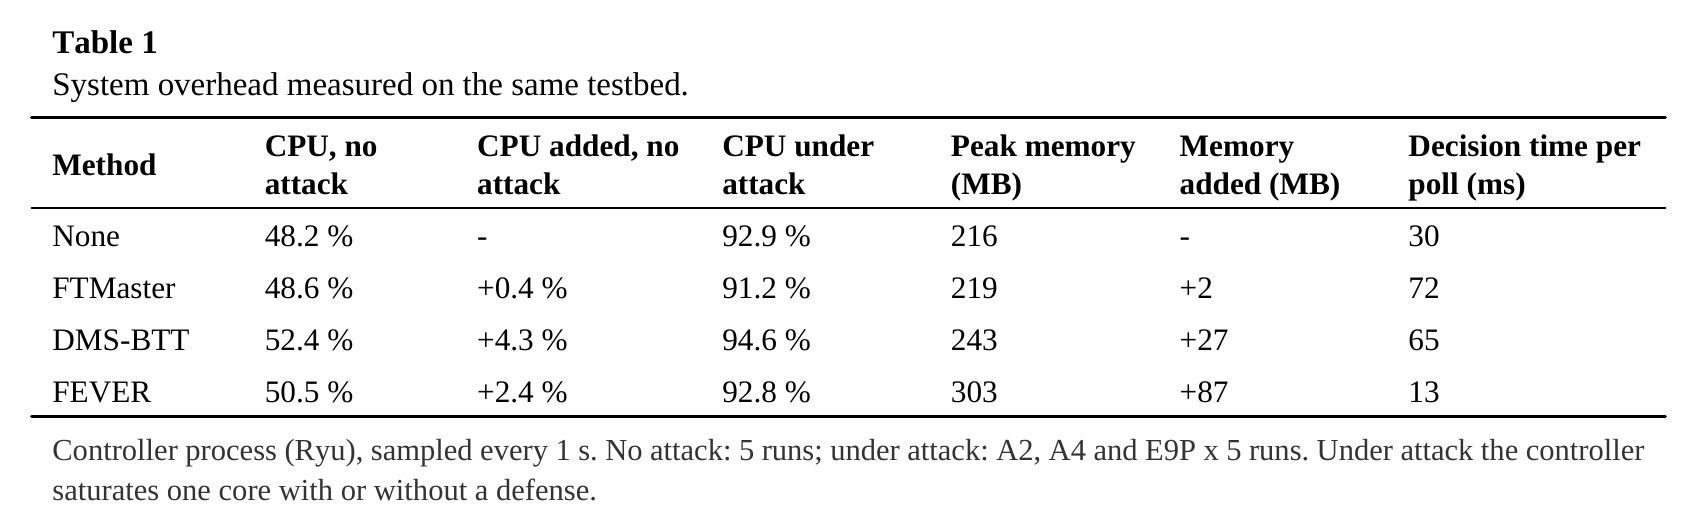
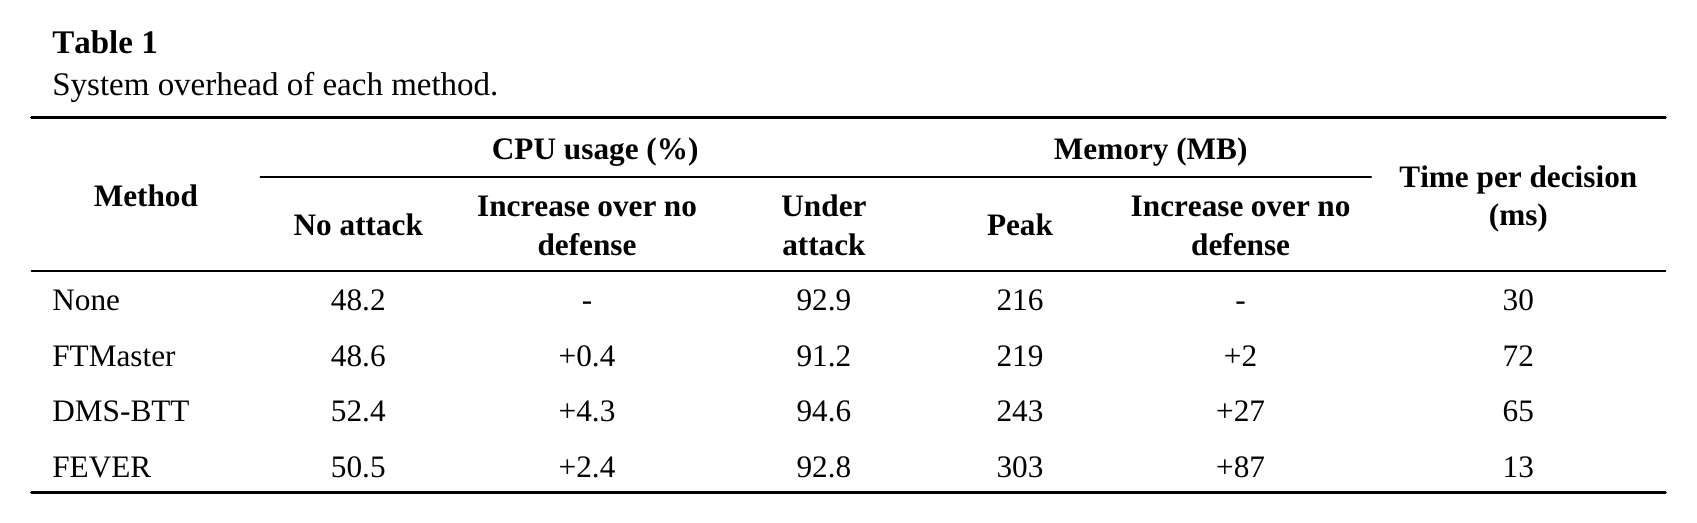
Overhead Table 1: grouped CPU / memory headers in plain words, no note; image regenerated

diff --git a/loft_project/docs/build_overhead_table.py b/loft_project/docs/build_overhead_table.py
@@ -49,15 +49,26 @@ base_idle = ben[ben.defense == "none"].cpu_pct.mean()
 rows = []
 for k, name in NAME:
     a, b = att[att.defense == k], ben[ben.defense == k]
-    rows.append([name, f"{b.cpu_pct.mean():.1f} %", f"{b.cpu_pct.mean() - base_idle:+.1f} %" if k != "none" else "-",
-                 f"{a.cpu_pct.mean():.1f} %", f"{a.mem_mb.mean():.0f}",
-                 f"{a.mem_mb.mean() - base_mem:+.0f}" if k != "none" else "-", f"{a.decision_ms_median.mean():.0f}"])
-s = [table("<b>Table 1</b><br/>System overhead measured on the same testbed.",
-           ["Method", "CPU, no attack", "CPU added, no attack", "CPU under attack", "Peak memory (MB)",
-            "Memory added (MB)", "Decision time per poll (ms)"],
-           rows, [0.13, 0.13, 0.15, 0.14, 0.14, 0.14, 0.17],
-           "Controller process (Ryu), sampled every 1 s. No attack: 5 runs; under attack: A2, A4 and E9P x 5 runs. "
-           "Under attack the controller saturates one core with or without a defense.")]
+    rows.append([name, f"{b.cpu_pct.mean():.1f}", f"{b.cpu_pct.mean() - base_idle:+.1f}" if k != "none" else "-",
+                 f"{a.cpu_pct.mean():.1f}",
+                 f"{a.mem_mb.mean():.0f}", f"{a.mem_mb.mean() - base_mem:+.0f}" if k != "none" else "-",
+                 f"{a.decision_ms_median.mean():.0f}"])
+c = lambda t: Paragraph(f"<b>{t}</b>", ParagraphStyle("h", parent=S["cell"], alignment=1))  # noqa: E731
+v = lambda t: Paragraph(str(t), ParagraphStyle("v", parent=S["cell"], alignment=1))  # noqa: E731
+data = [[c("Method"), c("CPU usage (%)"), "", "", c("Memory (MB)"), "", c("Time per decision (ms)")],
+        ["", c("No attack"), c("Increase over no defense"), c("Under attack"), c("Peak"),
+         c("Increase over no defense"), ""]]
+data += [[Paragraph(r[0], S["cell"])] + [v(x) for x in r[1:]] for r in rows]
+t1 = Table(data, colWidths=[w * W for w in (0.14, 0.12, 0.16, 0.13, 0.11, 0.16, 0.18)])
+t1.setStyle(TableStyle([("SPAN", (1, 0), (3, 0)), ("SPAN", (4, 0), (5, 0)), ("SPAN", (0, 0), (0, 1)),
+                        ("SPAN", (6, 0), (6, 1)),
+                        ("LINEABOVE", (0, 0), (-1, 0), 0.9, colors.black),
+                        ("LINEBELOW", (1, 0), (3, 0), 0.4, colors.black), ("LINEBELOW", (4, 0), (5, 0), 0.4, colors.black),
+                        ("LINEBELOW", (0, 1), (-1, 1), 0.5, colors.black),
+                        ("LINEBELOW", (0, -1), (-1, -1), 0.9, colors.black),
+                        ("VALIGN", (0, 0), (-1, -1), "MIDDLE"),
+                        ("TOPPADDING", (0, 0), (-1, -1), 2.5), ("BOTTOMPADDING", (0, 0), (-1, -1), 2.5)]))
+s = [KeepTogether([Paragraph("<b>Table 1</b><br/>System overhead of each method.", S["cap"]), t1, Spacer(1, 10)])]
 
 pub = [["SFTO-Guard", "+1.64 %", "-", "Mininet + Ryu"],
        ["FTMaster", "+2.38 %", "230", "Mininet + Ryu"],
